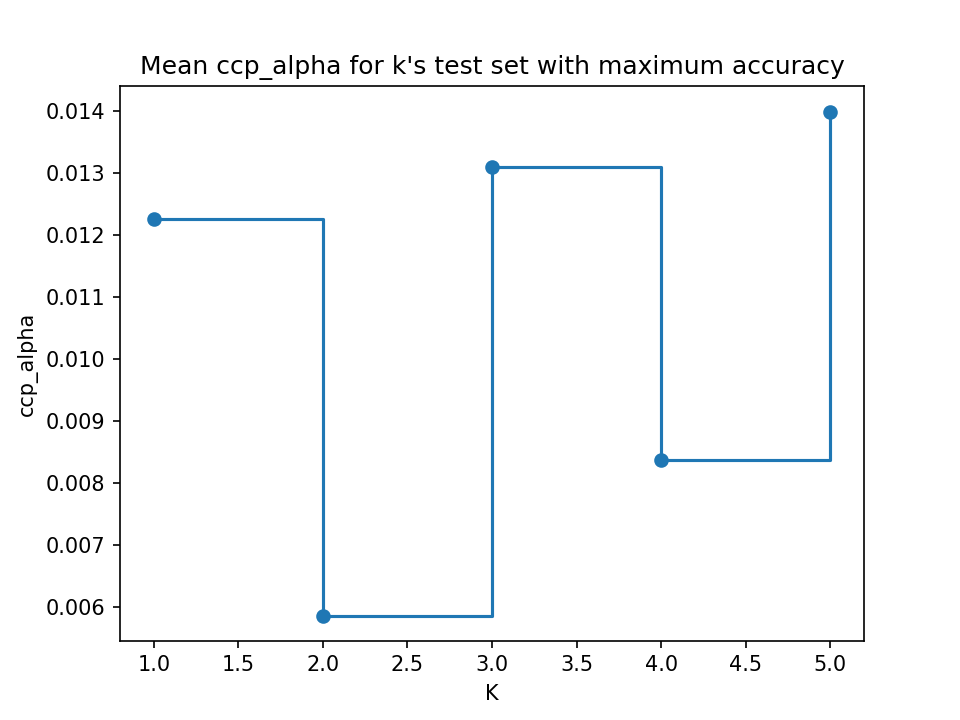
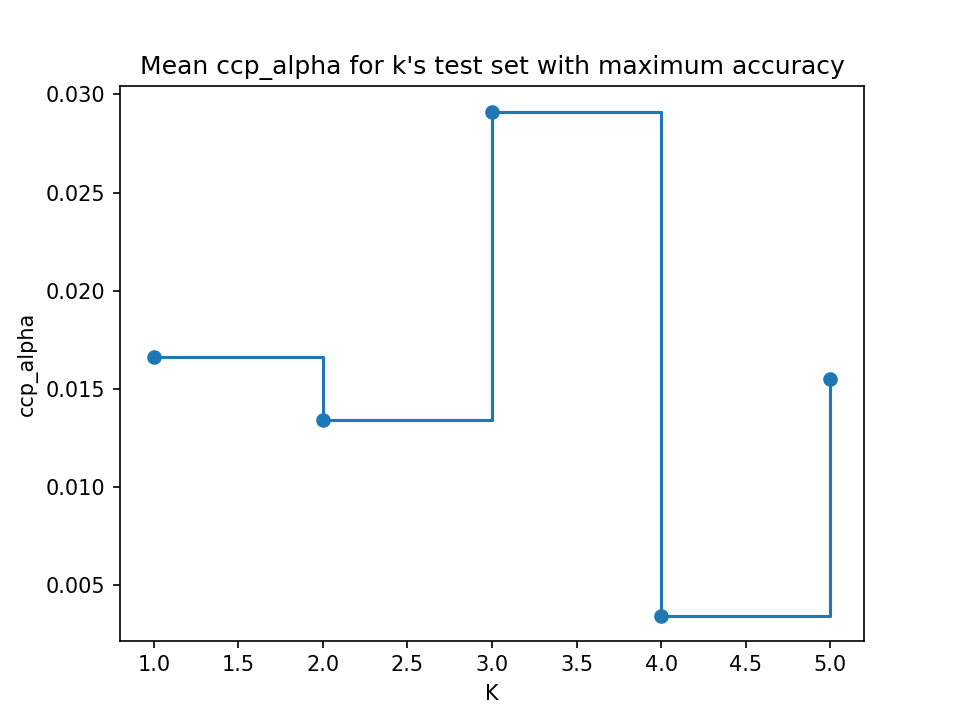
Update Task4

diff --git a/Task4/main.py b/Task4/main.py
@@ -124,66 +124,138 @@ print(train_mean_results)
 print(test_mean_results)
 
 
-### Minimal Cost-Complexity Pruning using k-fold cross-validation
-train_scores = []
-test_scores = []
-ccp_alphas = []
-impurities = []
+# ### Minimal Cost-Complexity Pruning using k-fold cross-validation
+# train_scores = []
+# test_scores = []
+# ccp_alphas = []
+# impurities = []
+#
+# for train_idx, test_idx in kf.split(wineData):
+#     wineData_Train = wineData.loc[train_idx, :]
+#     wineData_Test = wineData.loc[test_idx, :]
+#     clf_min = tree.DecisionTreeClassifier()
+#     path = clf_min.cost_complexity_pruning_path(wineData_Train.loc[:,wineData_Train.columns != 'Class'].values, wineData_Train['Class'].values)
+#     ccp_alphas.append(path.ccp_alphas)
+#     impurities.append(path.impurities)
+#
+#     clfs_min = []
+#     for ccp_alpha in ccp_alphas[-1]:
+#         clf_min = tree.DecisionTreeClassifier(random_state=0, ccp_alpha=ccp_alpha)
+#         clf_min.fit(wineData_Train.loc[:,wineData_Train.columns != 'Class'].values, wineData_Train['Class'].values)
+#         clfs_min.append(clf_min)
+#
+#     # fig, ax = plt.subplots()
+#     # ax.plot(ccp_alphas[:-1], impurities[:-1], marker='o', drawstyle="steps-post")
+#     # ax.set_xlabel("effective alpha")
+#     # ax.set_ylabel("total impurity of leaves")
+#     # ax.set_title("Total Impurity vs effective alpha for training set")
+#     # plt.show()
+#
+#     train_scores.append([clf_min.score(wineData_Train.loc[:,wineData_Train.columns != 'Class'].values, wineData_Train['Class'].values) for clf_min in clfs_min])
+#     test_scores.append([clf_min.score(wineData_Test.loc[:,wineData_Test.columns != 'Class'].values, wineData_Test['Class'].values) for clf_min in clfs_min])
+#
+#     # fig, ax = plt.subplots()
+#     # ax.set_xlabel("alpha")
+#     # ax.set_ylabel("accuracy")
+#     # ax.set_title("Accuracy vs alpha for training and testing sets")
+#     # ax.plot(ccp_alphas[-1], train_scores[-1], marker='o', label="train",
+#     #         drawstyle="steps-post")
+#     # ax.plot(ccp_alphas[-1], test_scores[-1], marker='o', label="test",
+#     #         drawstyle="steps-post")
+#     # ax.legend()
+#     # plt.show()
+#
+# # MEANS
+# max_len = max([len(i) for i in ccp_alphas])
+# max_train_score_idxs = [np.where(i == np.amax(i)) for i in train_scores]
+# max_test_score_idxs = [np.where(i == np.amax(i)) for i in test_scores]
+# # print(max_test_score_idxs[0])
+# max_ccp_alphas_train = [max(ccp_alphas[i][max_train_score_idxs[i][0]]) for i in range(5)]
+# max_ccp_alphas_test = [max(ccp_alphas[i][max_test_score_idxs[i][0]]) for i in range(5)]
+# # print(sum(ccp_alphas[0][max_test_score_idxs[0][0]])/len(max_test_score_idxs[0][0]))
+# # print(max_len_ccp)
+# # print(mean_cpp_alphas)
+#
+# # k = [1,2,3,4,5]
+# # fig, ax = plt.subplots()
+# # ax.set_xlabel("K")
+# # ax.set_ylabel("ccp_alpha")
+# # ax.set_title("Mean ccp_alpha for k's test set with maximum accuracy")
+# # ax.plot(k, mean_ccp_alphas_test, marker='o', label="test",
+# #         drawstyle="steps-post")
+# # # ax.legend()
+# # plt.savefig("5fold_ccp_alphas.png",dpi=150)
+# # plt.show()
+# mean_total_ccp_alpha = sum(max_ccp_alphas_test)/len(max_ccp_alphas_test)
+# print("Mean ccp_alpha: ",mean_total_ccp_alpha) # Mean ccp_alpha:  0.02323620625392982
+#
+# # ### Draw  decision tree for ccp_alpha
+# # clf_ccp_alpha = tree.DecisionTreeClassifier(ccp_alpha=mean_total_ccp_alpha)
+# # clf_ccp_alpha.fit(wineData.loc[:,wineData.columns != 'Class'].values, wineData['Class'].values)
+# # column_names = wineData.loc[:,wineData.columns != 'Class'].columns.values
+# # class_names = ["1","2","3"]
+# # graph_data = tree.export_graphviz(clf_ccp_alpha, out_file=None, feature_names=column_names, filled=True,
+# #                                   rounded=True, special_characters=True, class_names=class_names)
+# # graph = graphviz.Source(graph_data, format='png')
+# # graph.render("CcpAlphaTree")
 
-for train_idx, test_idx in kf.split(wineData):
-    wineData_Train = wineData.loc[train_idx, :]
-    wineData_Test = wineData.loc[test_idx, :]
-    clf_min = tree.DecisionTreeClassifier()
-    path = clf_min.cost_complexity_pruning_path(wineData_Train.loc[:,wineData_Train.columns != 'Class'].values, wineData_Train['Class'].values)
-    ccp_alphas.append(path.ccp_alphas)
-    impurities.append(path.impurities)
 
-    clfs_min = []
-    for ccp_alpha in ccp_alphas[-1]:
-        clf_min = tree.DecisionTreeClassifier(random_state=0, ccp_alpha=ccp_alpha)
-        clf_min.fit(wineData_Train.loc[:,wineData_Train.columns != 'Class'].values, wineData_Train['Class'].values)
-        clfs_min.append(clf_min)
 
-    # fig, ax = plt.subplots()
-    # ax.plot(ccp_alphas[:-1], impurities[:-1], marker='o', drawstyle="steps-post")
-    # ax.set_xlabel("effective alpha")
-    # ax.set_ylabel("total impurity of leaves")
-    # ax.set_title("Total Impurity vs effective alpha for training set")
-    # plt.show()
 
-    train_scores.append([clf_min.score(wineData_Train.loc[:,wineData_Train.columns != 'Class'].values, wineData_Train['Class'].values) for clf_min in clfs_min])
-    test_scores.append([clf_min.score(wineData_Test.loc[:,wineData_Test.columns != 'Class'].values, wineData_Test['Class'].values) for clf_min in clfs_min])
 
-# MEANS
-max_len = max([len(i) for i in ccp_alphas])
-max_train_score_idxs = [np.where(i == np.amax(i)) for i in train_scores]
-max_test_score_idxs = [np.where(i == np.amax(i)) for i in test_scores]
-# print(max_test_score_idxs[0])
-mean_ccp_alphas_train = [sum(ccp_alphas[i][max_train_score_idxs[i][0]])/len(max_train_score_idxs[i][0]) for i in range(5)]
-mean_ccp_alphas_test = [sum(ccp_alphas[i][max_test_score_idxs[i][0]])/len(max_test_score_idxs[i][0]) for i in range(5)]
-# print(sum(ccp_alphas[0][max_test_score_idxs[0][0]])/len(max_test_score_idxs[0][0]))
-# print(max_len_ccp)
-# print(mean_cpp_alphas)
 
-k = [1,2,3,4,5]
-fig, ax = plt.subplots()
-ax.set_xlabel("K")
-ax.set_ylabel("ccp_alpha")
-ax.set_title("Mean ccp_alpha for k's test set with maximum accuracy")
-ax.plot(k, mean_ccp_alphas_test, marker='o', label="test",
-        drawstyle="steps-post")
-# ax.legend()
-plt.savefig("5fold_ccp_alphas.png",dpi=150)
-plt.show()
-mean_total_ccp_alpha = sum(mean_ccp_alphas_test)/len(mean_ccp_alphas_test)
-print("Mean ccp_alpha: ",mean_total_ccp_alpha) # Mean ccp_alpha:  0.01071973699112266
 
-# ### Draw  decision tree for ccp_alpha
-# clf_ccp_alpha = tree.DecisionTreeClassifier(random_state=0, ccp_alpha=mean_total_ccp_alpha)
-# clf_ccp_alpha.fit(wineData.loc[:,wineData.columns != 'Class'].values, wineData['Class'].values)
-# column_names = wineData.loc[:,wineData.columns != 'Class'].columns.values
-# class_names = ["1","2","3"]
-# graph_data = tree.export_graphviz(clf_ccp_alpha, out_file=None, feature_names=column_names, filled=True,
-#                                   rounded=True, special_characters=True, class_names=class_names)
-# graph = graphviz.Source(graph_data, format='png')
-# graph.render("CppAlphaTree")
+
+### Create decision tree for the first: 2, 3, 4, etc. variables
+
+def get_optimal_tree_alpha(n_var, data):
+    train_scores = []
+    test_scores = []
+    ccp_alphas = []
+    impurities = []
+
+    data = data.loc[:,data.columns[:(n_var+1)]]
+    for train_idx, test_idx in kf.split(data):
+        wineData_Train = data.loc[train_idx, :]
+        wineData_Test = data.loc[test_idx, :]
+        clf_min = tree.DecisionTreeClassifier()
+        path = clf_min.cost_complexity_pruning_path(wineData_Train.loc[:,wineData_Train.columns != 'Class'].values, wineData_Train['Class'].values)
+        ccp_alphas.append(path.ccp_alphas)
+        impurities.append(path.impurities)
+
+        clfs_min = []
+        for ccp_alpha in ccp_alphas[-1]:
+            clf_min = tree.DecisionTreeClassifier(random_state=0, ccp_alpha=ccp_alpha)
+            clf_min.fit(wineData_Train.loc[:,wineData_Train.columns != 'Class'].values, wineData_Train['Class'].values)
+            clfs_min.append(clf_min)
+
+        train_scores.append([clf_min.score(wineData_Train.loc[:,wineData_Train.columns != 'Class'].values, wineData_Train['Class'].values) for clf_min in clfs_min])
+        test_scores.append([clf_min.score(wineData_Test.loc[:,wineData_Test.columns != 'Class'].values, wineData_Test['Class'].values) for clf_min in clfs_min])
+
+    # MAX
+    max_train_score_idxs = [np.where(i == np.amax(i)) for i in train_scores]
+    max_test_score_idxs = [np.where(i == np.amax(i)) for i in test_scores]
+    # max_ccp_alphas_train = [max(ccp_alphas[i][max_train_score_idxs[i][0]]) for i in range(5)]
+    max_ccp_alphas_test = [max(ccp_alphas[i][max_test_score_idxs[i][0]]) for i in range(5)]
+
+    mean_total_ccp_alpha = sum(max_ccp_alphas_test)/len(max_ccp_alphas_test)
+    return mean_total_ccp_alpha
+
+ccp_alphas_table = []
+n_leaves_table = []
+depth_table =[]
+for x in range(2,14):
+    ccp_alphas_table.append(round(get_optimal_tree_alpha(x,wineData),4))
+    clf = tree.DecisionTreeClassifier(ccp_alpha=ccp_alphas_table[-1])
+    tempData = wineData.loc[:,wineData.columns[:(x+1)]]
+    clf.fit(tempData.loc[:,tempData.columns != 'Class'].values, tempData['Class'].values)
+    n_leaves_table.append(clf.get_n_leaves())
+    depth_table.append(clf.get_depth())
+
+var_decision_tree_prop = pd.DataFrame()
+var_decision_tree_prop["Variables"] = np.linspace(2,13,num=12, dtype='int64')
+var_decision_tree_prop["Ccp_alphas"] = ccp_alphas_table
+var_decision_tree_prop["Leaves"] = n_leaves_table
+var_decision_tree_prop["Depth"] = depth_table
+
+print(var_decision_tree_prop)

diff --git a/Task4/README.md b/Task4/README.md
@@ -8,7 +8,7 @@ Use wine dataset from _Task 3_ to perform following points:
 * [x] check accuracy of the full tree by repeated substitution and cross-validation,
 * [x] use Minimal Cost-Complexity Pruning, draw it and compare the results of its
 accuracy with the full tree,
-* [ ] create tree for the first: 2, 3, 4, etc. variables - determine the most optimal tree each time,
+* [x] create tree for the first: 2, 3, 4, etc. variables - determine the most optimal tree each time,
 * [ ] plot the accuracy of the tree as a function of the number of used variables, as well 
 as differences in the size of the full and optimal tree.
 
@@ -113,13 +113,34 @@ Use _5-fold cross-validation_ to create 5 _wineData test and train sets_. Create
 Next for every _ccp_alpha_ fit decision tree - using _k-wineData_Train_ set. On plot below is mean _ccp_alpha_ for k-testset in 5-fold cross-validation.
 Mean _ccp_alpha_ is calculated from maximum accuracy for k-testset.
 
-<img src="https://raw.githubusercontent.com/Stanisz96/SED/master/Task4/5fold_ccp_alphas.png" height="100%" width="100%">
+<img src="https://raw.githubusercontent.com/Stanisz96/SED/master/Task4/5fold_ccp_alphas.png" height="75%" width="75%">
 
-Calculated mean ccp_alpha from above plot is: 0.01078. Using this value to create decision tree - return:
+Calculated mean ccp_alpha from above plot is: 0.02324. Using this value to create decision tree - return:
 
-<img src="https://raw.githubusercontent.com/Stanisz96/SED/master/Task4/CcpAlphaTree.png" height="100%" width="100%">
+<img src="https://raw.githubusercontent.com/Stanisz96/SED/master/Task4/CcpAlphaTree.png" height="75%" width="75%">
 
 
+### Create decision tree for the first: 2, 3, 4, etc. variables
+Using method of creating most optimal decision tree from point above - can create table with properties of decision
+tree with different number of variables. Created _DataFrame_ object `var_decision_tree_prop` contains table for alphas, number of leaves and depth - depend on number of variables in dataset:
+
+```
+print(var_decision_tree_prop)
+>     Variables  Ccp_alphas  Leaves  Depth
+  0           2      0.0213       5      3
+  1           3      0.0310       4      3
+  2           4      0.0268       5      3
+  3           5      0.0390       5      3
+  4           6      0.0251       4      3
+  5           7      0.0230       5      3
+  6           8      0.0319       5      3
+  7           9      0.0189       5      3
+  8          10      0.0187       7      4
+  9          11      0.0472       4      3
+  10         12      0.0208       5      4
+  11         13      0.0208       7      3
+
+```
 
 
 [1]: https://www.graphviz.org/
